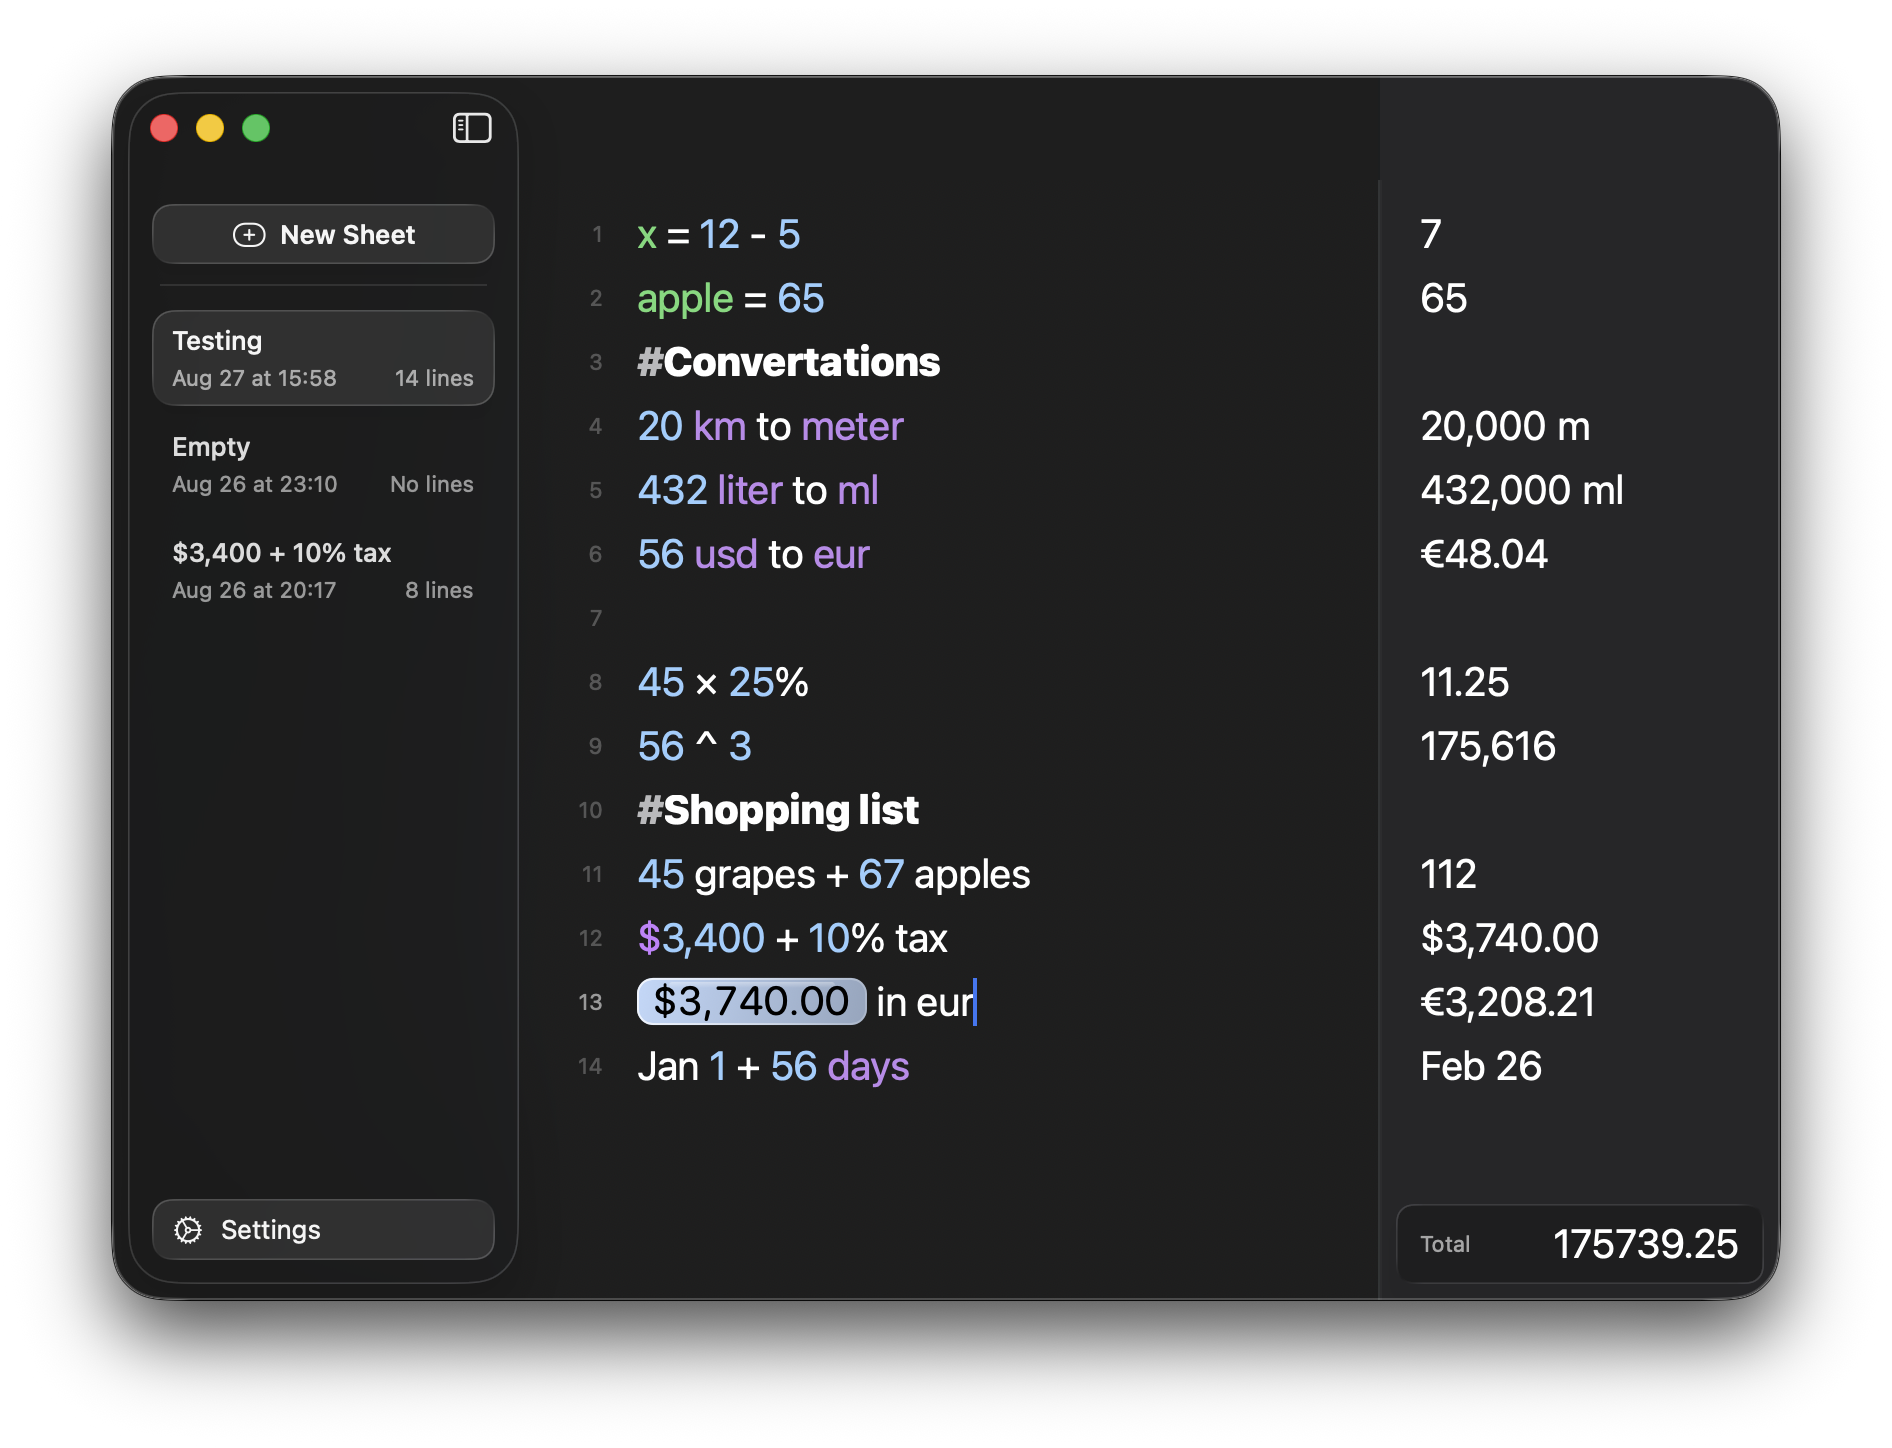
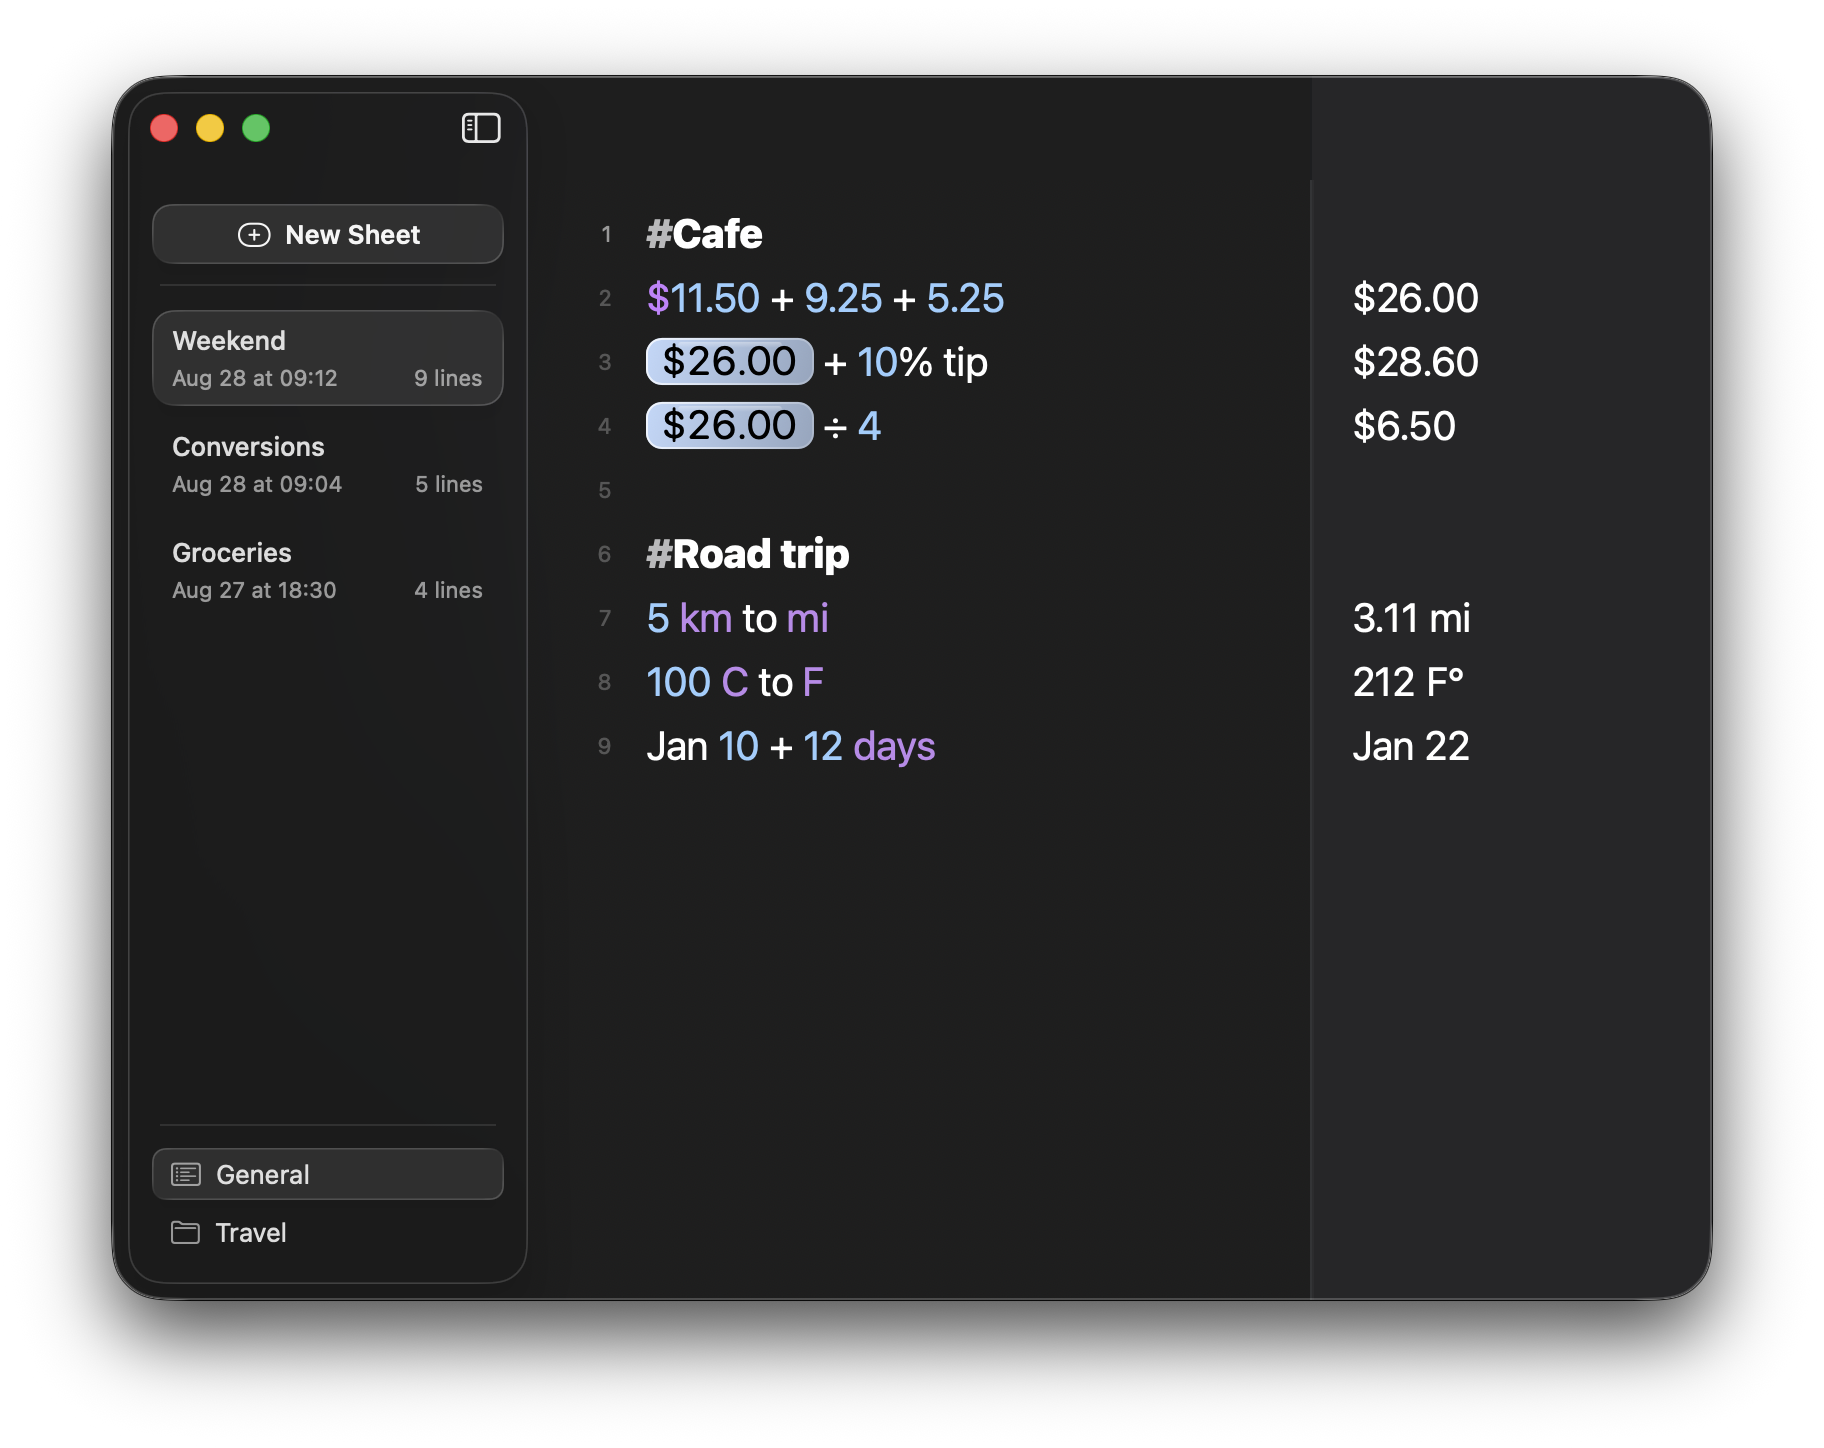
Redesign project README

diff --git a/README.md b/README.md
@@ -1,68 +1,141 @@
 <p align="center">
-  <img src="Assets/AppIcon.iconset/icon_512x512@2x.png?v=20260828-0042" alt="Numlex" width="150px" height="150px"/>
+  <img src="Assets/AppIcon.iconset/icon_512x512.png" alt="Numlex app icon" width="132" height="132"/>
 </p>
 
 <h1 align="center">Numlex</h1>
+
 <p align="center">
-  <img src="Assets/NumlexScreenshot.png" alt="Numlex calculator notebook"/>
+  <img src="https://img.shields.io/github/v/release/Qulierm/Numlex" alt="Latest release"/>
+  <img src="https://img.shields.io/badge/macOS-26%2B-111111" alt="macOS 26 or later"/>
+  <img src="https://img.shields.io/badge/Platform-Apple%20Silicon%20(arm64)-111111" alt="Apple Silicon, arm64"/>
+  <img src="https://img.shields.io/badge/Swift-6.2-F05138" alt="Swift 6.2"/>
 </p>
 
-A simple and elegant notepad-based calculator to create and manage sheets with real-time evaluation of mathematical expressions.
+<p align="center">
+  A notepad calculator: type plain lines, get live, checked results — natural math,
+  variables, percentages, dates, unit and currency conversions, and reusable
+  live answer tokens.
+</p>
+
+<p align="center">
+  <a href="https://github.com/Qulierm/Numlex/releases/latest">Download the latest release</a>
+</p>
+
+<p align="center">
+  <img src="Assets/NumlexScreenshot.png" alt="Numlex in dark mode: a notebook sheet with live results, two answer-token bubbles referencing the same earlier line, and bottom folder tabs for General and a custom Travel folder" width="800"/>
+</p>
+
+## Natural calculations
+
+Numlex reads ordinary notebook text — no formula syntax, no cell references. Each line
+is evaluated strictly; anything it cannot parse stays quiet instead of guessing.
+
+```text
+hotel = 1240      1,240
+hotel + 10%       1,364
+$240 + 10% tip    $264.00
+20 km to meter    20,000 m
+100 C to F        212 F°
+Jan 10 + 12 days  Jan 22
+```
+
+Every line above runs through the real engine — these are its exact, deterministic
+outputs, with no live rates involved. Declare values with `name = expression`, use
+percentages and money with the same grammar (`$240 + 10% tip`), and do date arithmetic
+on plain month names (`Jan 10 + 12 days`).
+
+## Conversions
+
+Write `10 km to meter` — `in` works just as well (`10 km in meter`).
+
+- Around 290 measurement units across length, area, volume, mass, time, speed,
+  pressure, force, torque, energy, power, flow and viscosity, plus temperature and
+  fuel economy.
+- 166 fiat currencies with live rates: codes (`10 EUR to USD`), symbol forms
+  (`$100 in EUR`) and English names (`10 Indian rupees to Japanese yen`).
+- Rates are cached locally for an hour; if the network is unavailable, Numlex keeps
+  serving the last good table.
+
+## Answer tokens
+
+Double-click any answer — or type an operator on a new line — and Numlex inserts a
+live token at the caret or selection. A token is a small bubble that always displays
+the current value of its source line: change the source and the bubble updates
+immediately. Several distinct bubbles may reuse the same earlier line — each keeps its
+own identity and follows the live value, as in the screenshot above. If a source line
+stops evaluating, its tokens stay in place and show the remembered `Line N` label
+instead of a stale number.
+
+## Sheets and folders
+
+Work in named sheets with line numbers, syntax tinting and a live results column.
+Sheets are grouped by the one-level folder tabs pinned to the bottom of the sidebar:
+the built-in **General** tab plus any custom folders you create. Selecting a tab
+filters the sheet list only — your editor and cursor never jump.
+
+## Styling and constants
+
+Choose Light or Dark for the whole app, then tune font size, font design and role
+colors, decimal places, input helpers, line numbers, interface language and the
+currency display. Define up to 100 app-wide constants (`PI = 3.141592653589793`,
+`Sales Tax = 20%`) that are available in every sheet and resolved live through the
+same strict engine.
+
+## Files and storage
+
+Sheets persist locally in Application Support, and the only network traffic is the
+background rates refresh. Import and export any sheet as a `.nlx` file from the File
+menu, and drag a sheet onto a folder tab to re-file it.
 
 ## Download
 
-Get the latest release from the [GitHub releases page](https://github.com/Qulierm/Numlex/releases/latest).
-
 - macOS 26 or later, Apple Silicon (arm64).
-- The current release is ad-hoc signed and not notarized. On the first launch, Control-click (or right-click) `Numlex.app` and choose **Open** to bypass the Gatekeeper warning.
-
-## Architecture
-
-Numlex is a native **Swift 6 / SwiftUI** macOS app (macOS 26, Liquid Glass). The calculation engine is a pure, evaluation-free domain parser in `Sources/NumlexCore` — no scripting, no web view.
-
-- `Sources/NumlexCore/Engine/` — tokenizer, parser and evaluator. Grammar: parentheses, decimal numbers, unary `+`/`-`, `+ - * / ^ %` (postfix percent), variables and `name = expression` assignments, headings (`// Title`), `#` notes. Strict errors instead of silent coercion; rounding respects settings.
-- `Sources/NumlexCore/Engine/Conversions.swift` — unit conversions (`10 km to meter`, `100 C to F`, …) and fiat-currency conversion (166 live codes, `10 EUR in USD`, `$100 to EUR`, `10 rupees in yen`) via `Rates`.
-- `Sources/NumlexCore/Engine/CurrencyPresentation.swift` — the ONE currency marker table: input markers (`$`, `€`, `Rp`, `zł`, `Kč`, `CN¥`, …), output symbols and ISO-4217 minor digits, shared by every parser path.
-- `Sources/NumlexCore/Engine/ConstantResolver.swift` — the pure resolver for user constants: name validation, reserved names, case/whitespace duplicates, topological dependency resolution with cycle detection and strict expression evaluation (money values keep their single ISO code; no unit stripping, no word fallback).
-- `Sources/NumlexCore/Services/` — JSON persistence in Application Support, live rates from the open.er-api.com endpoint (cached 1 h, 8 s timeout, offline-safe).
-- `Sources/NumlexCore/Localization.swift` — interface translations (en/ru/de/it/fr/ch).
-- `Sources/NumlexApp/` — SwiftUI app: sidebar with sheet management (create, rename, delete, import/export `.nlx`), native `NSTextView` notebook editor with line numbers and syntax tinting, live results column with row alignment, settings scene (language, font size, line spacing, decimal places, rates).
-
-## Supported conversions
-
-`<number> <unit> to <unit>` (or `in`): temperature, fuel economy (`km/L`, `US mpg`, `L/100km`, `mi/L`, `gal/100mi` — reciprocal crossings are exact), and ~290 measurement units across length (incl. hand, furlong, US survey foot, angstrom, pica), area, volume (incl. bbl, bushel, metric cup), mass (incl. slug, troy oz, cwt), time (Gregorian average `yr`/`mo`, common/Julian year), speed (knot, Mach, `c₀`), pressure (at, psf, mmH2O), force (ozf, kip, poundal), torque (N·cm, ozf·in), energy (erg, t TNT, quad, hph), power (TR, boiler/electric hp), flow (cfm, UK gpm, US mgd) and viscosity (Pa·s, cP, St, reyn).
-
-Currency: 166 fiat codes with live rates (crypto and precious metals are out of scope). Codes (`10 EUR to USD`), safe output symbols (`Rp25000`, `zł100`, `2.5K$`, `₩500`) and English names for the major currencies (`10 Indian rupees to Japanese yen`) all work in the conversion grammar; display uses the shared presentation (`$600.00`, ISO-code fallback, ISO-4217 minor digits — 0 for JPY/KRW/VND/CLP/…, 3 for BHD/KWD/…, 4 for CLF).
-
-## Custom constants
-
-Settings → **Constants**: up to 100 user-defined named values (`PI = 3.141592653589793`, `Sales Tax = 20%`, `Monthly Rent = $2,500`) available in EVERY sheet. Names are 1–6 words (case/whitespace-insensitive), may reference each other in any order (cycles are detected per row), and evaluate with the strict engine — no unit stripping, no word fallback. Constants are immutable: `PI = 3` shows a `Cannot assign to constant` error in every sheet, token route included. They persist with the app settings (never embedded in `.nlx` exports), paint green in the editor, and feed the live-result pipeline: sheet evaluation, answer tokens, previous-answer insertion, auto-titling and syntax highlighting all resolve them through the same pure resolver.
-
-## Prerequisites
-
-- macOS 26 with Xcode Command Line Tools (`xcode-select --install`)
-- Swift 6 toolchain
-
-## Build
+- Download the `.dmg` from the [latest release](https://github.com/Qulierm/Numlex/releases/latest),
+  open it, and drag **Numlex.app** into Applications.
+- Numlex is ad-hoc signed and **not notarized**. On first launch, Control-click (or
+  right-click) **Numlex.app**, choose **Open**, and confirm the prompt.
+- Verify your download with the checksums file from the same release:
 
 ```sh
-swift build            # debug
-swift build -c release # release
+shasum -a 256 -c SHA256SUMS
 ```
 
-## Tests
+## Build from source
 
-The engine test suite is registered with Swift Testing (`Tests/NumlexCoreTests`) and shares all 489 cases with a standalone runner (`Tests/NumlexTestKit`).
+Requires macOS 26 with the Swift 6.2 toolchain; Xcode Command Line Tools are enough
+(`xcode-select --install`).
 
 ```sh
-swift test             # Swift Testing suite (full Xcode toolchain)
-swift run NumlexTests  # standalone runner — works with Command Line Tools only
+swift build               # debug
+swift build -c release    # release
 ```
 
-## Package a .app bundle
+The engine suite covers 489 shared cases, runnable two ways:
 
 ```sh
-Scripts/build-app.sh [debug|release]
+swift test                # Swift Testing suite (full Xcode toolchain)
+swift run NumlexTests     # standalone runner (Command Line Tools only)
 ```
 
-Produces `.build/Numlex.app` (signed with an ad-hoc identity) and prints its path.
+Package a signed app bundle:
+
+```sh
+Scripts/build-app.sh [debug|release]   # produces .build/Numlex.app
+```
+
+<details>
+<summary>Architecture</summary>
+
+- **Native UI** — SwiftUI on top of TextKit (`NSTextView`) with line numbers, syntax
+  tinting and per-line answer alignment. No web view and no scripting engine —
+  expressions run through the pure Swift parser.
+- **`Sources/NumlexCore`** — a pure, deterministic parser: tokenizer,
+  recursive-descent expression parser, unit catalog, currency presentation, date
+  arithmetic and the live reference-token resolver. Strict errors instead of silent
+  coercion.
+- **Persistence** — one JSON store in `~/Library/Application Support/Numlex`; `.nlx`
+  import/export per sheet.
+- **Rates** — fetched from `open.er-api.com`, cached for one hour with an 8-second
+  timeout; the last good table keeps serving when offline.
+
+</details>
